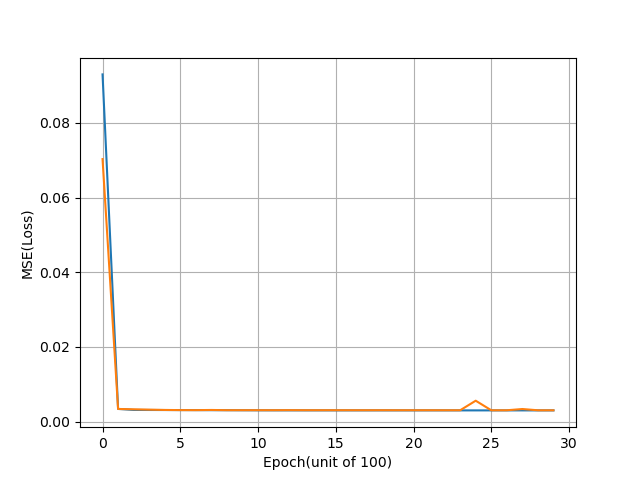
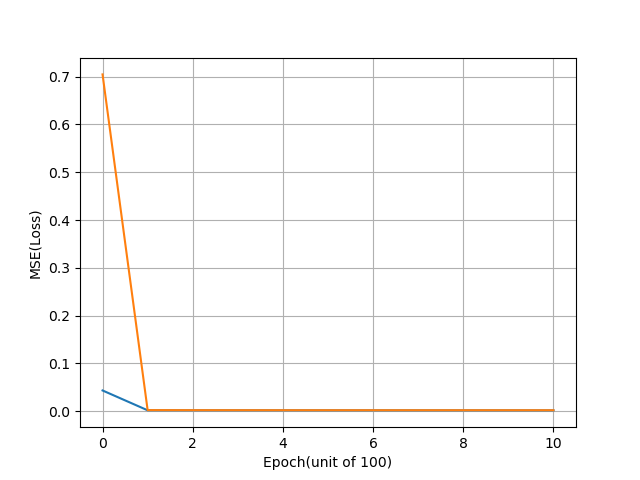
Self Branch Commit

diff --git a/torch/train_mlp.py b/torch/train_mlp.py
@@ -10,9 +10,10 @@ import time
 from model import get_model
 #DEVICE = torch.device("cuda" if torch.cuda.is_available() else "cpu")
 DEVICE =torch.device("cpu")
-EXPERIMENT = False #Compares and plots watm-start vs random initialization
+EXPERIMENT = True #Compares and plots watm-start vs random initialization
 NUM_EPOCHS = 1001
 NUM_CHECK = 1 # Between 1 and 6 .How many batteries do you want to evaluate
+Validate = False
 ###### FOR REFERENCE : DATA INGESTION STARTS HERE ##########
 def get_data_tensor(data_dict, max_idx_to_use, max_size):
     inputs = None
@@ -41,7 +42,7 @@ def get_data_tensor(data_dict, max_idx_to_use, max_size):
 
 # Load battery data
 data_RW = getDischargeMultipleBatteries()
-max_idx_to_use = 36 # We are training the battery with constamt current data #This is to force nly one battery data
+max_idx_to_use = 3 # We are training the battery with constamt current data #This is to force nly one battery data
 max_size = np.max([v[0, 0].shape[0] for k, v in data_RW.items()])
 dt = np.diff(data_RW[1][2, 0])[1]
 # Get data tensors
@@ -80,7 +81,7 @@ train_idx = [i for i in np.arange(0,36) if i not in val_idx]
         
 # Create the MLP model, optimizer, and criterion
 mlp = get_model(dt=dt, mlp=True, share_q_r=False, stateful=True).to(DEVICE)
-optimizer = optim.Adam(mlp.parameters(), lr=2e-2)
+optimizer = optim.Adam(mlp.parameters(), lr=5e-3)
 criterion = nn.MSELoss().to(DEVICE)
 param_count = sum(p.numel() for p in mlp.parameters() if p.requires_grad)
 print("Total number of trainable parameters are ",param_count)
@@ -98,7 +99,7 @@ dataset = TensorDataset(X_tensor, Y_tensor)
 data_loader = DataLoader(dataset, batch_size=30, shuffle=True) #TODO : Make it 30 again
 print("I am loading ",len(data_loader))
 # Learning rate scheduler
-scheduler = optim.lr_scheduler.LambdaLR(optimizer, lambda epoch: 1 if epoch < 800 else (0.5 if epoch < 1100 else (0.25 if epoch < 2200 else 0.125)))
+#scheduler = optim.lr_scheduler.LambdaLR(optimizer, lambda epoch: 1 if epoch < 800 else (0.5 if epoch < 1100 else (0.25 if epoch < 2200 else 0.125)))
 untrained_parameter_value = [mlp.cell.qMax.data.item(),mlp.cell.Ro.data.item()]
 print("UnTrained Parameter Value:", untrained_parameter_value)
 # Training loop
@@ -132,7 +133,7 @@ for epoch in range(num_epochs):
         total_loss += loss.item()
 
     # Adjust learning rate using scheduler
-    scheduler.step()   
+    #scheduler.step()   
 
     # Print epoch statistics
     if epoch % 100 == 0:
@@ -214,7 +215,7 @@ if EXPERIMENT:
             total_loss += loss.item()
 
         # Adjust learning rate using scheduler
-        scheduler.step()
+        #scheduler.step()
 
         # Print epoch statistics
         if epoch % 100 == 0:
@@ -229,34 +230,35 @@ if EXPERIMENT:
 
     plt.xlabel('Epoch(unit of 100)')
     plt.savefig('figures/trainingtrend.png')
-    #plt.show()
+    plt.show()
 ###### This is a small experiment comparing warm_start with random start ########
     
 ######## Validation is done here ##########
-mlp.eval()
-# Time for the test set
-X = inputs_shiffed[val_idx,:,:]
-# For confidential reasons
-shape_X = np.shape(X)
-print(shape_X)
+if Validate:
+    mlp.eval()
+    # Time for the test set
+    X = inputs_shiffed[val_idx,:,:]
+    # For confidential reasons
+    shape_X = np.shape(X)
+    print(shape_X)
 
-Y = target_shiffed[val_idx,:,np.newaxis]  
-X_tensor = torch.from_numpy(X).to(DEVICE)
-Y_tensor = torch.from_numpy(Y).to(DEVICE)
-with torch.no_grad():
-    pred = mlp(X_tensor).cpu().numpy()
+    Y = target_shiffed[val_idx,:,np.newaxis]  
+    X_tensor = torch.from_numpy(X).to(DEVICE)
+    Y_tensor = torch.from_numpy(Y).to(DEVICE)
+    with torch.no_grad():
+        pred = mlp(X_tensor).cpu().numpy()
 
-#plt.plot(X, Y, color='gray')
-print("Predictions have shape ",pred.shape)
-for i in range(NUM_CHECK):
-    plt.plot(pred[i,:,0],linestyle='dashed')
-    plt.plot(Y_tensor[i,:,0])
-plt.ylabel('Voltage(V)')
-plt.grid()
+    #plt.plot(X, Y, color='gray')
+    print("Predictions have shape ",pred.shape)
+    for i in range(NUM_CHECK):
+        plt.plot(pred[i,:,0],linestyle='dashed')
+        plt.plot(Y_tensor[i,:,0])
+    plt.ylabel('Voltage(V)')
+    plt.grid()
 
-plt.xlabel('Time')
-plt.savefig('figures/predictionvsreality.png')
-#plt.show()
+    plt.xlabel('Time')
+    plt.savefig('figures/predictionvsreality.png')
+    plt.show()
 
 ######## Validation is done here ##########
 

diff --git a/torch/BatteryRNNCell_mlp.py b/torch/BatteryRNNCell_mlp.py
@@ -17,7 +17,7 @@ class BatteryRNNCell(nn.Module):
 
         self.q_max_model = q_max_model
         self.R_0_model = R_0_model
-
+        self.mlp_trainable = mlp_trainable
         self.state_size = 8
         self.output_size = 1
         self.initBatteryParams(D_trainable)
@@ -88,14 +88,14 @@ class BatteryRNNCell(nn.Module):
 
         if self.q_max_model is None:
             initial_q_max = torch.tensor(1.4e4 / self.q_max_base_value).to(DEVICE)
-            self.qMax = nn.Parameter(initial_q_max,requires_grad=True).to(DEVICE)
+            self.qMax = nn.Parameter(initial_q_max,requires_grad=not self.mlp_trainable).to(DEVICE)
         else:
             self.qMax = self.q_max_model(torch.tensor(self.curr_cum_pwh)) / self.qMaxBASE
             self.qMax.to(DEVICE)
 
         if self.R_0_model is None:
             initial_R_0 = torch.tensor(0.15 / self.R_0_base_value)
-            self.Ro = nn.Parameter(initial_R_0,requires_grad=True).to(DEVICE)
+            self.Ro = nn.Parameter(initial_R_0,requires_grad=not self.mlp_trainable).to(DEVICE)
         else:
             self.Ro = self.R_0_model(torch.tensor(self.curr_cum_pwh)) / self.RoBASE
             self.Ro.to(DEVICE)

diff --git a/torch/train_per_battery_qmax_ro.py b/torch/train_per_battery_qmax_ro.py
@@ -1,0 +1,1 @@
+# This learns the 
